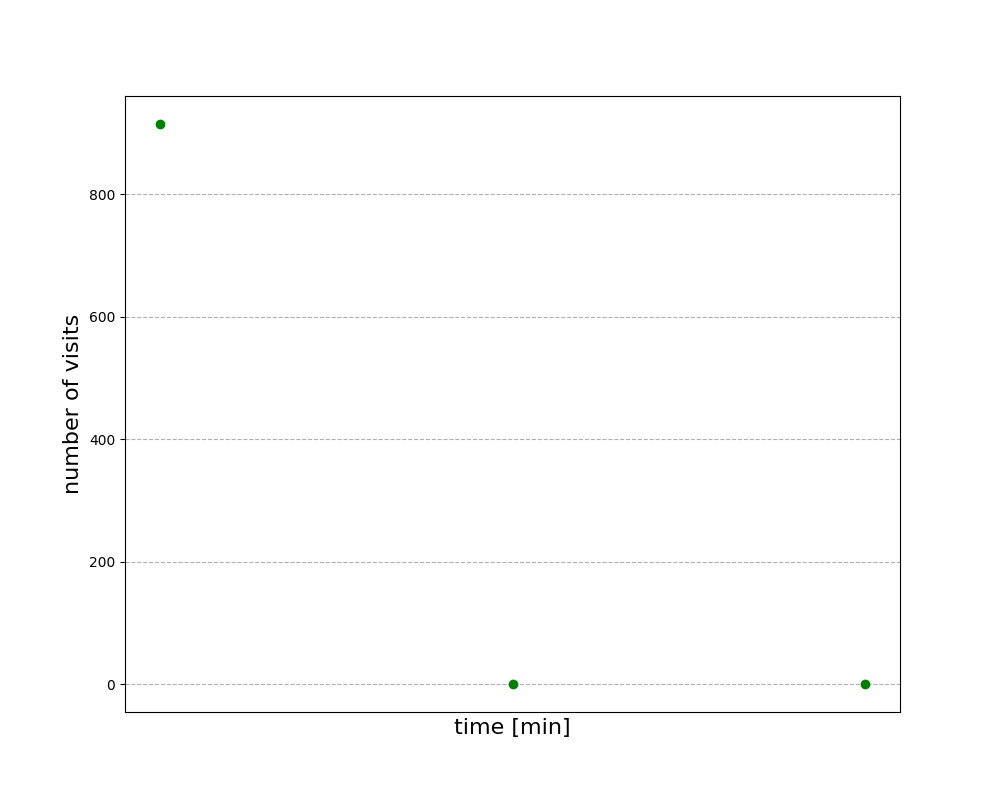
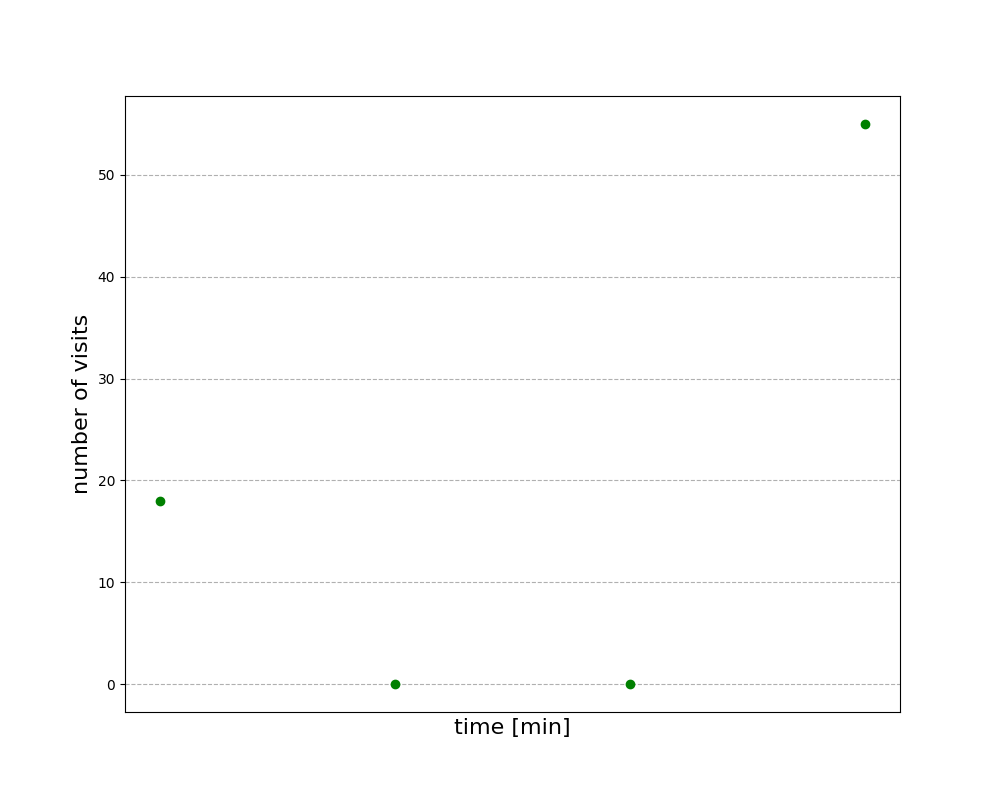
creating output

diff --git a/output/html_metric_results.html b/output/html_metric_results.html
@@ -7,7 +7,7 @@
         <body>
             <h1>Server visits per each minute</h1>
             <iframe width="1000" height="550" frameborder="0" seamless="seamless"             scrolling="no" src="graph.png"></iframe>
-            <p>this is impressive</p>
+            <p></p>
 
             <h3>Summary table:</h3>
             <table class="table table-striped">
@@ -21,43 +21,43 @@
   <tbody>
     <tr>
       <th>count</th>
-      <td>3.0</td>
-      <td>3.000000</td>
+      <td>4.000000</td>
+      <td>4.000000</td>
     </tr>
     <tr>
       <th>mean</th>
-      <td>2.0</td>
-      <td>305.000000</td>
+      <td>2.500000</td>
+      <td>18.250000</td>
     </tr>
     <tr>
       <th>std</th>
-      <td>1.0</td>
-      <td>528.275496</td>
+      <td>1.290994</td>
+      <td>25.927784</td>
     </tr>
     <tr>
       <th>min</th>
-      <td>1.0</td>
+      <td>1.000000</td>
       <td>0.000000</td>
     </tr>
     <tr>
       <th>25%</th>
-      <td>1.5</td>
+      <td>1.750000</td>
       <td>0.000000</td>
     </tr>
     <tr>
       <th>50%</th>
-      <td>2.0</td>
-      <td>0.000000</td>
+      <td>2.500000</td>
+      <td>9.000000</td>
     </tr>
     <tr>
       <th>75%</th>
-      <td>2.5</td>
-      <td>457.500000</td>
+      <td>3.250000</td>
+      <td>27.250000</td>
     </tr>
     <tr>
       <th>max</th>
-      <td>3.0</td>
-      <td>915.000000</td>
+      <td>4.000000</td>
+      <td>55.000000</td>
     </tr>
   </tbody>
 </table>

diff --git a/metrics_main.py b/metrics_main.py
@@ -19,7 +19,8 @@ def count_user_visits():
     global line_to_start_read
     global visits_per_minute
     # TODO: try, catch
-    subprocess.call("(scp -i ~/.ssh/metrics ec2-user@34.242.250.224:~/logs/access.log .)", shell=True)
+    # uncomment below for ssh aws instance logs copy
+    # subprocess.call("(scp -i ~/.ssh/metrics ec2-user@34.242.250.224:~/logs/access.log .)", shell=True)
     data = np.genfromtxt('access.log', dtype=str, delimiter='"', usecols=(0,2,5))
     print("line to start " + str(line_to_start_read))
     if line_to_start_read != 0:

diff --git a/supporting_methods/support.py b/supporting_methods/support.py
@@ -17,7 +17,7 @@ def prepare_and_build_HTML_file(graph_file_name, csv_file):
             <h1>Server visits per each minute</h1>
             <iframe width="1000" height="550" frameborder="0" seamless="seamless" \
             scrolling="no" src="''' + graph_file_name + '''"></iframe>
-            <p>this is impressive</p>
+            <p></p>
 
             <h3>Summary table:</h3>
             ''' + summary_table + '''
